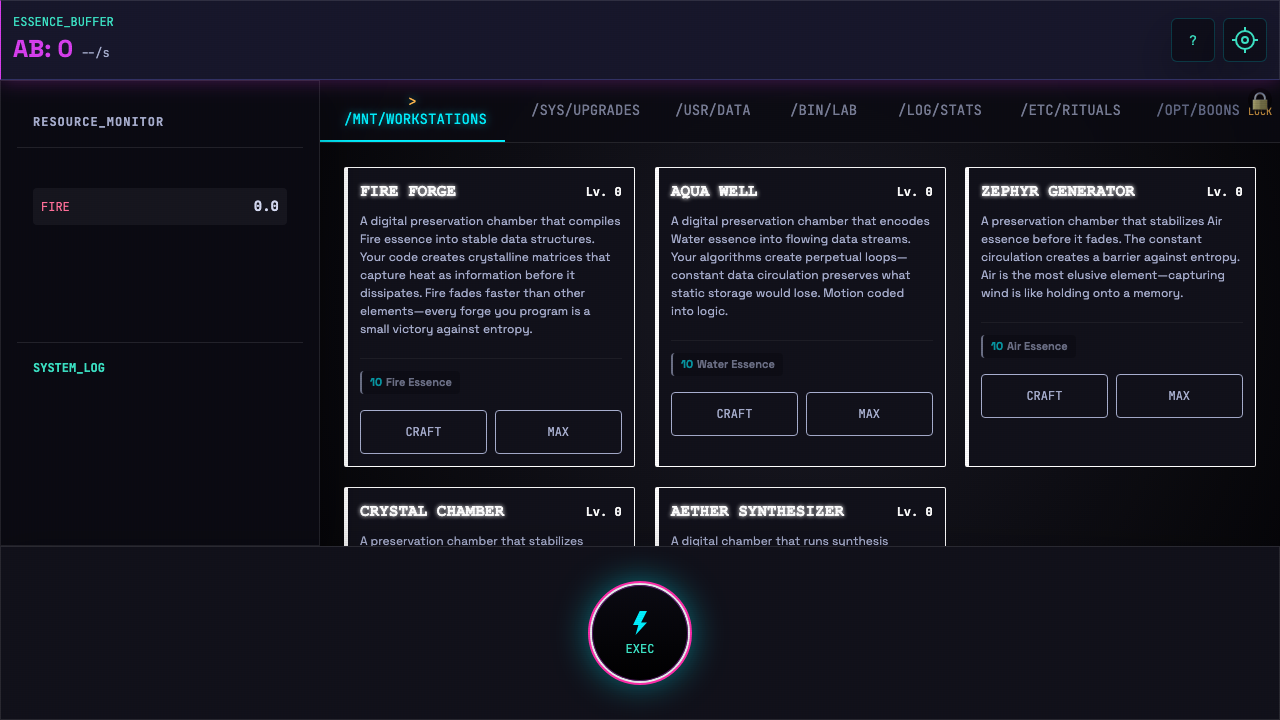
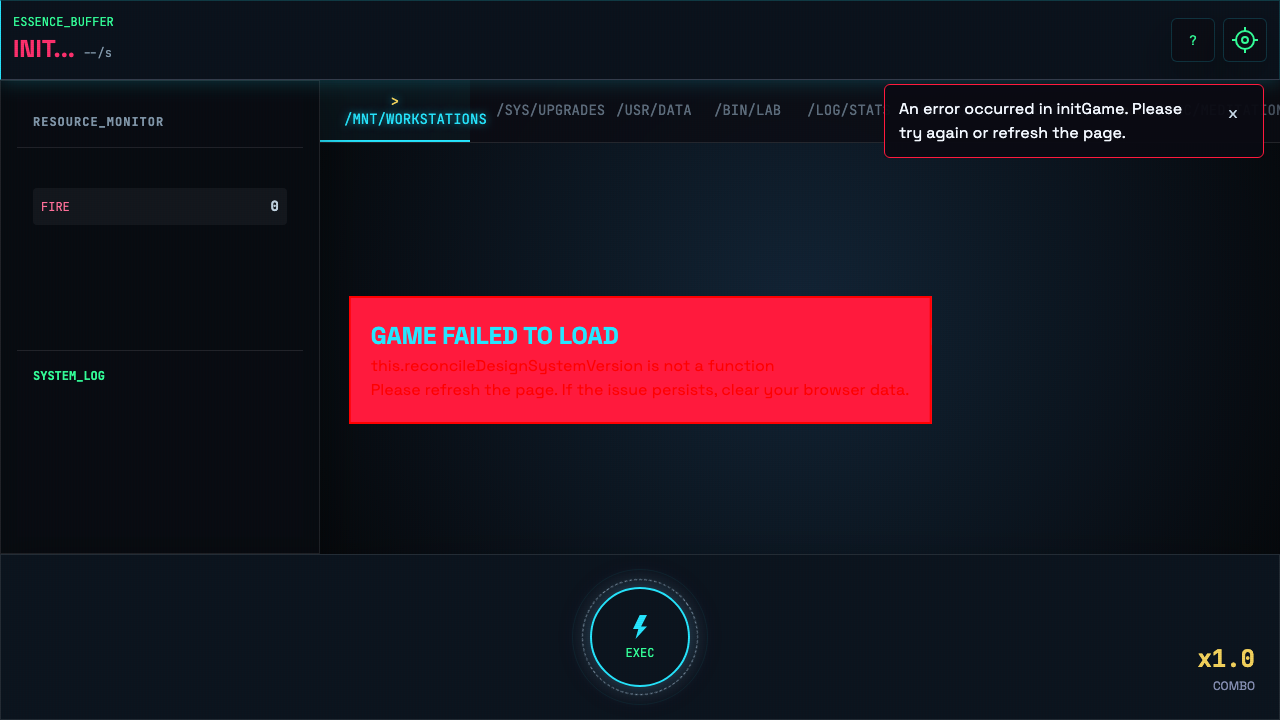
omx(team): auto-checkpoint worker-1 [1]

diff --git a/e2e/branch-b-reskin.spec.js b/e2e/branch-b-reskin.spec.js
@@ -149,7 +149,7 @@ test('branch B imagery and PWA metadata reference installable local assets', asy
         scope: './',
         display: 'standalone',
         iconCount: 3,
-        screenshotCount: 2
+        screenshotCount: 4
     }));
     expect(result.themeColor).toMatch(/^#[0-9a-f]{6}$/i);
     expect(result.backgroundColor).toMatch(/^#[0-9a-f]{6}$/i);
